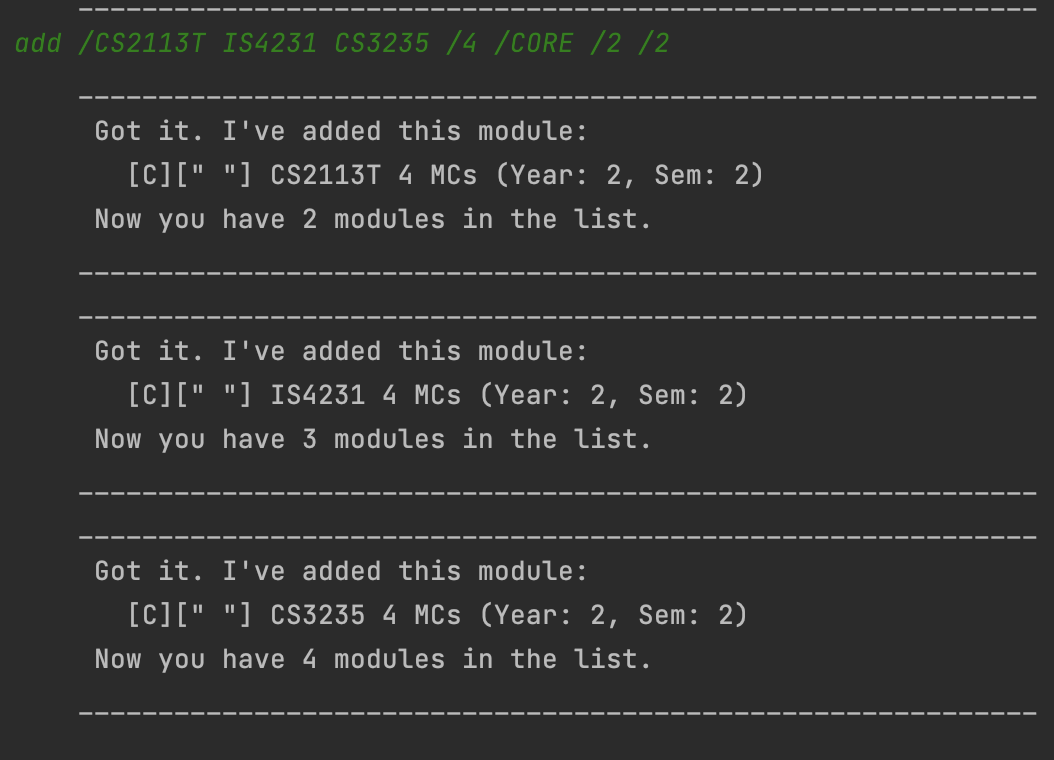
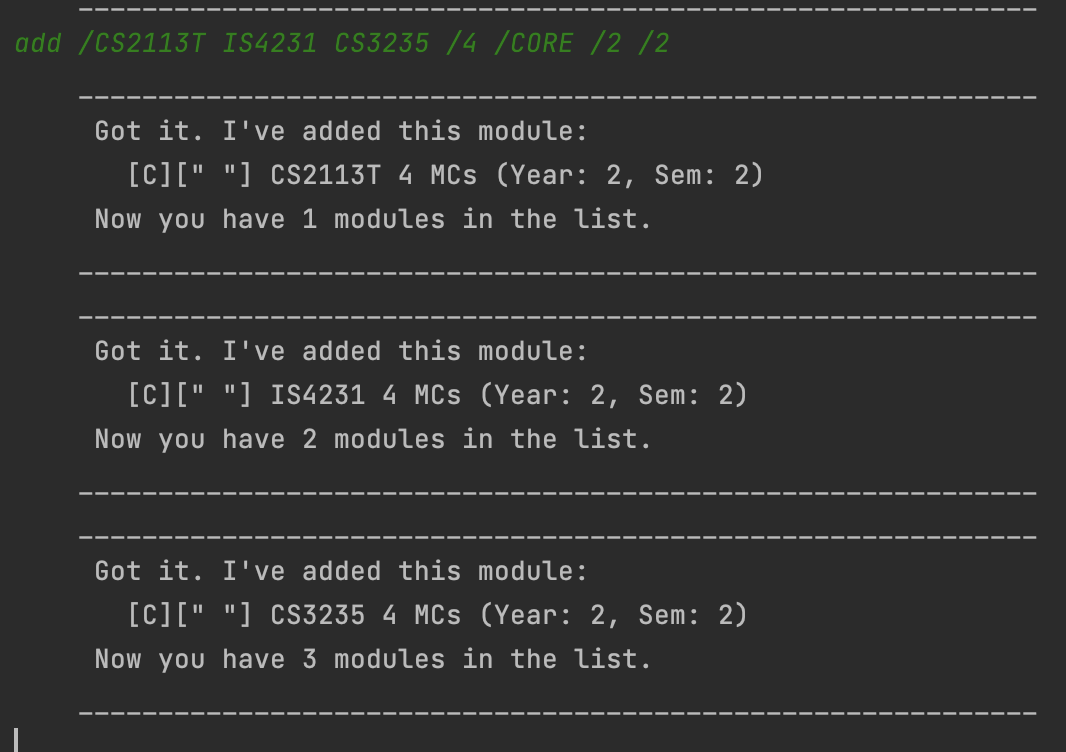
Edit screenshots in User Guide

diff --git a/docs/UserGuide.md b/docs/UserGuide.md
@@ -205,7 +205,7 @@ All right! Modganiser is now installed onto your device. Move on to the next sec
 ### 5.1 Summary Of Features
 Below is a summary of features that Modganiser has. To use the features, please refer to the command summary for their respective command formats.
 
-Managing Modules in the Module Plan </summary>
+Managing Modules in the Module Plan
 - Add, Edit, Delete Modules and input grade obtained for the module
 
 Displaying Modules in the Module Plan
@@ -263,11 +263,15 @@ When you have found a module that you would wish to take, you can use this comma
 
 Example: `add /CS2113T /4 /CORE /1 /1`. adds the module CS2113T that is worth 4 Modular Credits(MCs) and is a [Core module](#8-glossary) into Year 1 Semester 1.
 
-![AddCommand](UG_Screenshots/NotesInputOutputExample.png)
+![AddCommand](UG_Screenshots/AddingAModule.png)
 
 > 📓 **Note**
 > 
-> The C represents [Core Module](#8-glossary). [GE](#8-glossary), [UE](#8-glossary) and [Internship](#8-glossary) Modules are represented with “GE”, “UE” and “I” respectively.
+> The C in the first square bracket represents [Core Module](#8-glossary). [GE](#8-glossary), [UE](#8-glossary) and [Internship](#8-glossary) Modules are represented with “GE”, “UE” and “I” respectively as shown in the images below.
+> 
+> ![GEmodule](UG_Screenshots/GE_Module.png)
+> ![UEmodule](UG_Screenshots/UE_Module.png)
+> ![Internship](UG_Screenshots/Internship_Module.png)
 
 >❗ **Warning**
 > 
